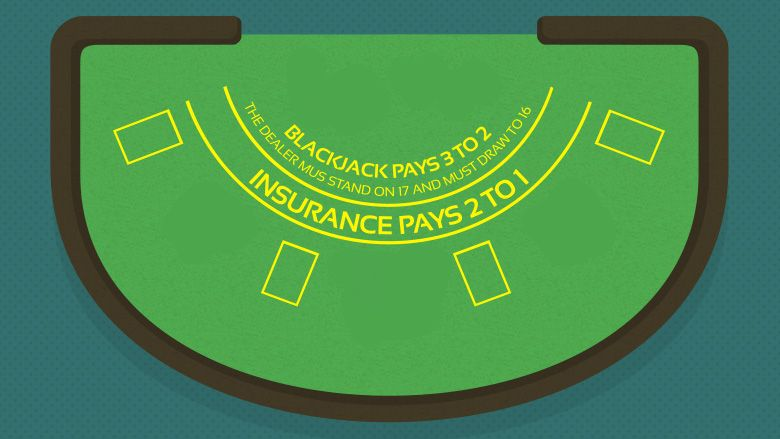
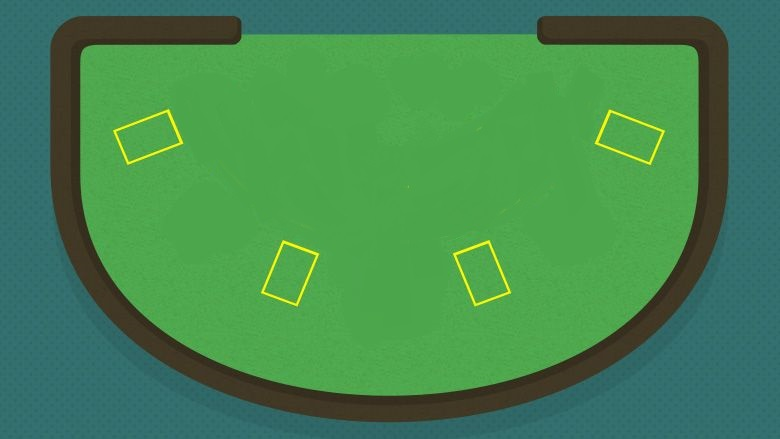
Falta los espacios para cargar las cartas en la mesa

diff --git a/Proyecto Version Actual/clienteTexas/WPFpruebaCliente/MainWindow.xaml b/Proyecto Version Actual/clienteTexas/WPFpruebaCliente/MainWindow.xaml
@@ -5,12 +5,20 @@
         xmlns:mc="http://schemas.openxmlformats.org/markup-compatibility/2006"
         xmlns:local="clr-namespace:WPFpruebaCliente"
         mc:Ignorable="d"
-        Title="Texas Holdem" Height="450" Width="800"
-        
-        
-        
+        Title="Texas Holdem" Height="600" Width="900"
+       WindowStyle="SingleBorderWindow"
+       WindowStartupLocation="CenterScreen"
+        Topmost="False" WindowState="Normal"
+                 Icon="./Recursos/games_cardgame_pocker_872.ico"
         >
-    <Grid>
-        
-    </Grid>
+    <Window.Background>
+        <ImageBrush ImageSource="/recursos/mesa1.jpg"></ImageBrush>
+    </Window.Background>
+
+    <StackPanel>
+       
+
+    </StackPanel>
+    
+    
 </Window>
